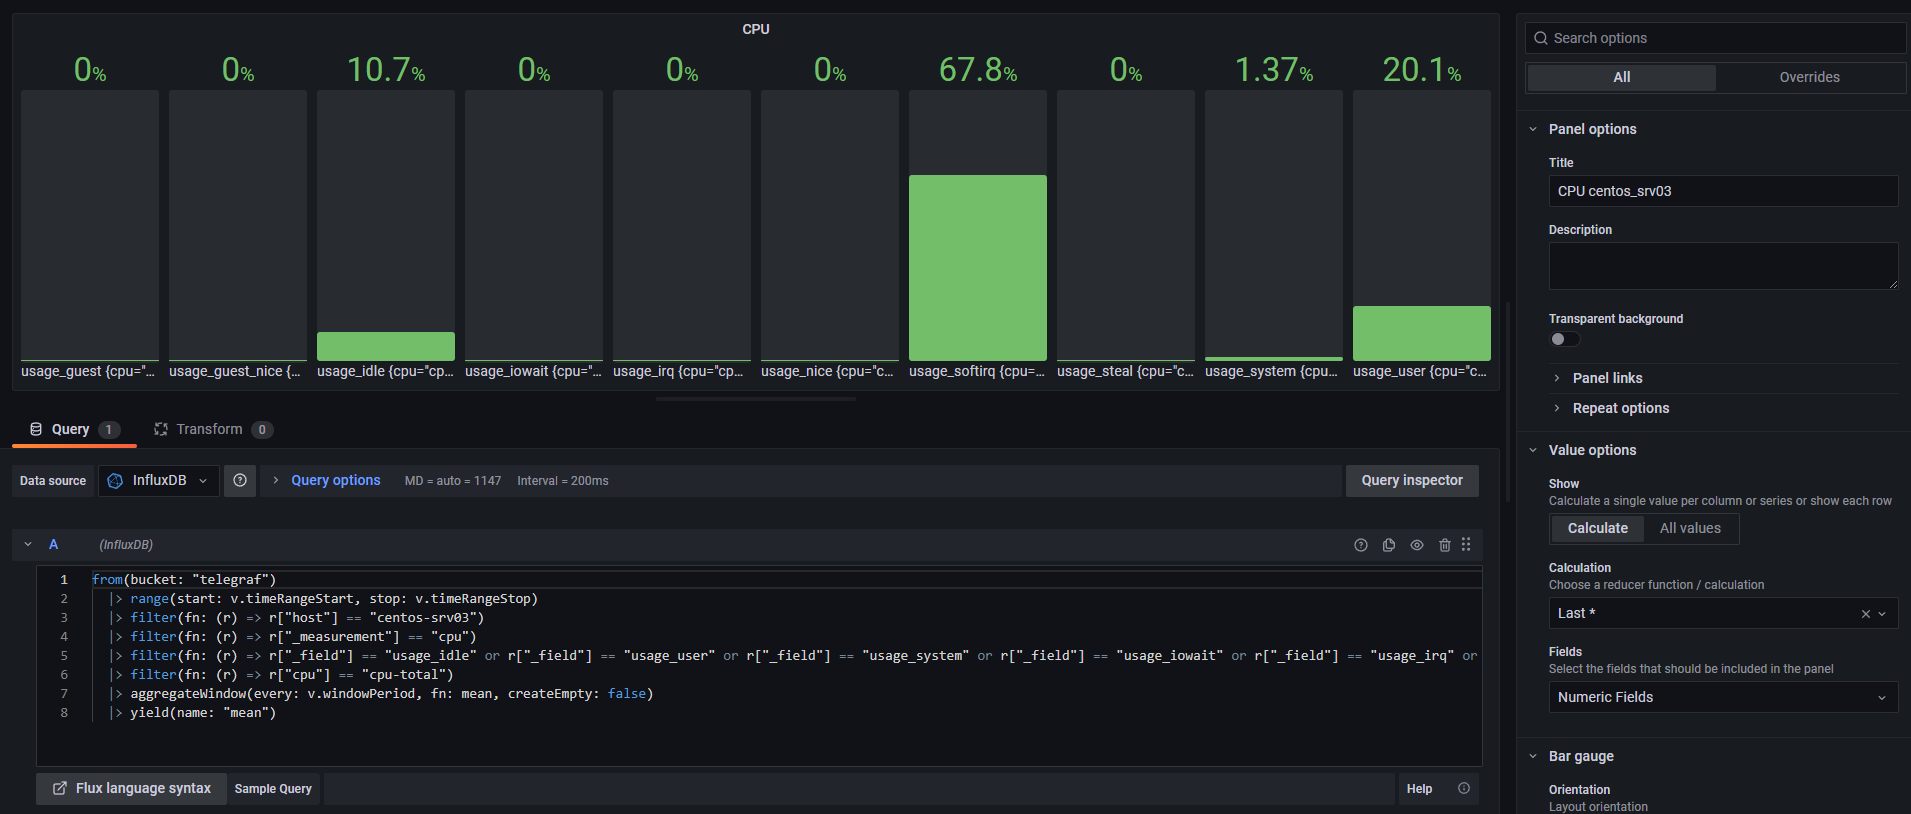
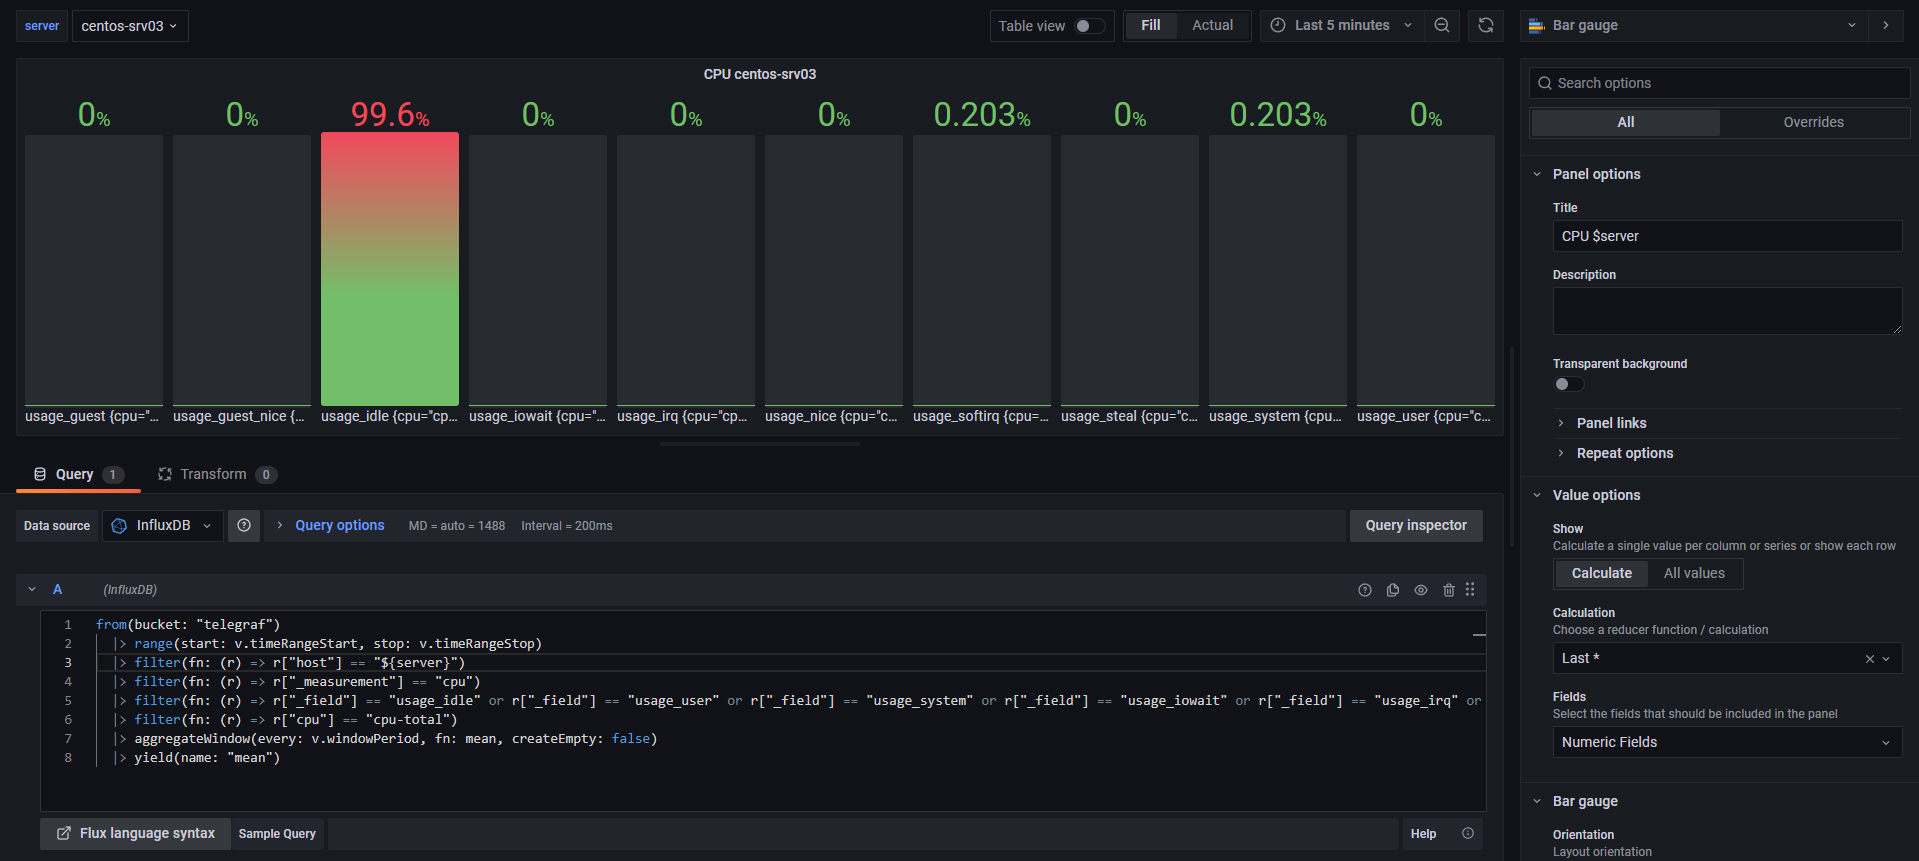
Atualizacao de codigo

diff --git a/README.md b/README.md
@@ -187,7 +187,6 @@ v1.tagValues(
 
 Obs:<br>
 1. Clicando fora dos campos, já é exibido um preview do valor coletado.<br>
-2. Exibe os valores da métrica **system** onde a chave for igual à **host**.<br>
 <kbd>
     <img src="https://github.com/fabiokerber/Grafana/blob/main/img/200220220858.png">
 </kbd>
@@ -198,12 +197,15 @@ Obs:<br>
 ```
 from(bucket: "telegraf")
   |> range(start: v.timeRangeStart, stop: v.timeRangeStop)
-  |> filter(fn: (r) => r["host"] == "centos-srv03")
+  |> filter(fn: (r) => r["host"] == "${server}")
   |> filter(fn: (r) => r["_measurement"] == "cpu")
   |> filter(fn: (r) => r["_field"] == "usage_idle" or r["_field"] == "usage_user" or r["_field"] == "usage_system" or r["_field"] == "usage_iowait" or r["_field"] == "usage_irq" or r["_field"] == "usage_nice" or r["_field"] == "usage_softirq" or r["_field"] == "usage_steal" or r["_field"] == "usage_guest" or r["_field"] == "usage_guest_nice")
   |> filter(fn: (r) => r["cpu"] == "cpu-total")
   |> aggregateWindow(every: v.windowPeriod, fn: mean, createEmpty: false)
   |> yield(name: "mean")
+```
+```
+Stress: $ stress-ng -c 0 -l 95
 ```
 <kbd>
     <img src="https://github.com/fabiokerber/Grafana/blob/main/img/200220220753.png">
@@ -232,9 +234,12 @@ from(bucket: "telegraf")
   |> range(start: v.timeRangeStart, stop: v.timeRangeStop)
   |> filter(fn: (r) => r["_measurement"] == "mem")
   |> filter(fn: (r) => r["_field"] == "total" or r["_field"] == "cached")
-  |> filter(fn: (r) => r["host"] == "centos-srv03")
+  |> filter(fn: (r) => r["host"] == "${server}")
   |> aggregateWindow(every: v.windowPeriod, fn: mean, createEmpty: false)
   |> yield(name: "last")
+```
+```
+Stress: $ stress-ng --vm 2 --vm-bytes 256M --timeout 240s
 ```
 <kbd>
     <img src="https://github.com/fabiokerber/Grafana/blob/main/img/200220221034.png">
@@ -273,234 +278,52 @@ from(bucket: "telegraf")
 <br />
 <br />
 
-## OLD
-
-# Importar Dash pronta do InfluxDB (somente para utilização Data Source "InfluxDB")
-New Dashboard > Import <br>
-https://grafana.com/grafana/dashboards/11912<br>
-Obs:<br>
-1. Necessário ajustar telegraf.conf
-<kbd>
-    <img src="https://github.com/fabiokerber/Grafana/blob/main/img/190220221317.png">
-</kbd>
-<br />
-<br />
-
-# Novo Dashboard utilizando variáveis
-Variáveis são utilizadas para quando for criar novos dashboard, utilizar os mesmos valores padrão.<br>
-**Refresh:** *On Time Range Change* - Quando alterar o valor de tempo na visualização, o Grafana atualiza o valor da variável em questão.<br>
-**Query:** *SHOW TAG VALUES FROM system WITH KEY = host* - Exibe os valores da métrica **system** onde a chave for igual à **host**.<br>
-Obs:<br>
-1. Clicando fora dos campos, já é exibido um preview do valor coletado.<br>
-<kbd>
-    <img src="https://github.com/fabiokerber/Grafana/blob/main/img/190220220911.png">
-</kbd>
-<br />
-<br />
-<kbd>
-    <img src="https://github.com/fabiokerber/Grafana/blob/main/img/190220220919.png">
-</kbd>
-<br />
-<br />
-
-
-# Painel de Uptime
-<kbd>
-    <img src="https://github.com/fabiokerber/Grafana/blob/main/img/190220220924.png">
-</kbd>
-<br />
-<br />
-<kbd>
-    <img src="https://github.com/fabiokerber/Grafana/blob/main/img/190220220925.png">
-</kbd>
-<br />
-<br />
-
-1. FROM: **system** WHERE: **host** = **$servers**<br>
-2. SELECT: **field(uptime)**<br>
-<kbd>
-    <img src="https://github.com/fabiokerber/Grafana/blob/main/img/190220220926.png">
-</kbd>
-<br />
-<br />
-
-Alterar para **Stat**.<br>
-<kbd>
-    <img src="https://github.com/fabiokerber/Grafana/blob/main/img/190220220940.png">
-</kbd>
-<br />
-<br />
-<kbd>
-    <img src="https://github.com/fabiokerber/Grafana/blob/main/img/190220220949.png">
-</kbd>
-<br />
-<br />
-<kbd>
-    <img src="https://github.com/fabiokerber/Grafana/blob/main/img/190220220950.png">
-</kbd>
-<br />
-<br />
-<kbd>
-    <img src="https://github.com/fabiokerber/Grafana/blob/main/img/190220220951.png">
-</kbd>
-<br />
-<br />
-<kbd>
-    <img src="https://github.com/fabiokerber/Grafana/blob/main/img/190220220952.png">
-</kbd>
-<br />
-<br />
-
-# Painel de CPU (% EM USO)
-*usage_idle* - Memória disponível.<br>
-*math(*-1 + 100)* - Fórmula matemática para trazer a porcentagem total de Memória disponível.<br> 
-1. FROM: **cpu** WHERE: **host** = **$servers** AND: **cpu** = **cpu-total**<br>
-2. SELECT: **field(usage_idle)** **math(*-1 + 100)**<br>
-<kbd>
-    <img src="https://github.com/fabiokerber/Grafana/blob/main/img/190220221007.png">
-</kbd>
-<br />
-<br />
-
-Alterar para **Gauge**.<br>
-<kbd>
-    <img src="https://github.com/fabiokerber/Grafana/blob/main/img/190220221011.png">
-</kbd>
-<br />
-<br />
-<kbd>
-    <img src="https://github.com/fabiokerber/Grafana/blob/main/img/190220221100.png">
-</kbd>
-<br />
-<br />
-<kbd>
-    <img src="https://github.com/fabiokerber/Grafana/blob/main/img/190220221121.png">
-</kbd>
-<br />
-<br />
-<kbd>
-    <img src="https://github.com/fabiokerber/Grafana/blob/main/img/190220221122.png">
-</kbd>
-<br />
-<br />
-<kbd>
-    <img src="https://github.com/fabiokerber/Grafana/blob/main/img/190220221123.png">
-</kbd>
-<br />
-<br />
-<kbd>
-    <img src="https://github.com/fabiokerber/Grafana/blob/main/img/190220221124.png">
-</kbd>
-<br />
-<br />
+# Painel Disco
 ```
-$ stress-ng -c 0 -l 95
+from(bucket: "telegraf")
+  |> range(start: v.timeRangeStart, stop: v.timeRangeStop)
+  |> filter(fn: (r) => r["_measurement"] == "disk" or r["_measurement"] == "diskio")
+  |> filter(fn: (r) => r["_field"] == "total" or r["_field"] == "used")
+  |> filter(fn: (r) => r["device"] == "sda1")
+  |> filter(fn: (r) => r["fstype"] == "xfs")
+  |> filter(fn: (r) => r["host"] == "${server}")
+  |> filter(fn: (r) => r["mode"] == "rw")
+  |> filter(fn: (r) => r["path"] == "/")
+  |> aggregateWindow(every: v.windowPeriod, fn: mean, createEmpty: false)
+  |> yield(name: "last")
 ```
-
 <kbd>
-    <img src="https://github.com/fabiokerber/Grafana/blob/main/img/190220221126.png">
+    <img src="https://github.com/fabiokerber/Grafana/blob/main/img/200220221130.png">
 </kbd>
 <br />
 <br />
 <kbd>
-    <img src="https://github.com/fabiokerber/Grafana/blob/main/img/190220221127.png">
-</kbd>
-<br />
-<br />
-
-# Painel de DISCO (% EM USO)
-1. FROM: **disk** WHERE: **host** = **$servers** AND: **path** = **/**<br>
-2. SELECT: **field(used_percent)**<br>
-<kbd>
-    <img src="https://github.com/fabiokerber/Grafana/blob/main/img/190220221130.png">
+    <img src="https://github.com/fabiokerber/Grafana/blob/main/img/200220221131.png">
 </kbd>
 <br />
 <br />
 
-Selecionar **Bar gauge**.<br>
-<kbd>
-    <img src="https://github.com/fabiokerber/Grafana/blob/main/img/190220221131.png">
-</kbd>
-<br />
-<br />
-<kbd>
-    <img src="https://github.com/fabiokerber/Grafana/blob/main/img/190220221135.png">
-</kbd>
-<br />
-<br />
-<kbd>
-    <img src="https://github.com/fabiokerber/Grafana/blob/main/img/190220221136.png">
-</kbd>
-<br />
-<br />
-<kbd>
-    <img src="https://github.com/fabiokerber/Grafana/blob/main/img/190220221137.png">
-</kbd>
-<br />
-<br />
-<kbd>
-    <img src="https://github.com/fabiokerber/Grafana/blob/main/img/190220221138.png">
-</kbd>
-<br />
-<br />
-<kbd>
-    <img src="https://github.com/fabiokerber/Grafana/blob/main/img/190220221140.png">
-</kbd>
-<br />
-<br />
-
-# Painel de MEMÓRIA (TOTAL EM USO)
-1. FROM: **mem** WHERE: **host** = **$servers**<br>
-2. SELECT: **field(used_percent)**<br>
-<kbd>
-    <img src="https://github.com/fabiokerber/Grafana/blob/main/img/190220221151.png">
-</kbd>
-<br />
-<br />
-<kbd>
-    <img src="https://github.com/fabiokerber/Grafana/blob/main/img/190220221205.png">
-</kbd>
-<br />
-<br />
-<kbd>
-    <img src="https://github.com/fabiokerber/Grafana/blob/main/img/190220221206.png">
-</kbd>
-<br />
-<br />
-<kbd>
-    <img src="https://github.com/fabiokerber/Grafana/blob/main/img/190220221207.png">
-</kbd>
-<br />
-<br />
-<kbd>
-    <img src="https://github.com/fabiokerber/Grafana/blob/main/img/190220221208.png">
-</kbd>
-<br />
-<br />
-<kbd>
-    <img src="https://github.com/fabiokerber/Grafana/blob/main/img/190220221209.png">
-</kbd>
-<br />
-<br />
-
+# Painel Docker
 ```
-$ stress-ng --vm-bytes $(awk '/MemAvailable/{printf "%d\n", $2 * 0.9;}' < /proc/meminfo)k --vm-keep -m 1
-$ stress-ng --vm 2 --vm-bytes 256M --timeout 240s
+from(bucket: "telegraf")
+  |> range(start: v.timeRangeStart, stop: v.timeRangeStop)
+  |> filter(fn: (r) => r["_measurement"] == "docker")
+  |> filter(fn: (r) => r["_field"] == "n_containers_running")
+  |> filter(fn: (r) => r["engine_host"] == "${server}")
+  |> filter(fn: (r) => r["host"] == "${server}")
+  |> filter(fn: (r) => r["server_version"] == "20.10.12")
+  |> aggregateWindow(every: v.windowPeriod, fn: mean, createEmpty: false)
+  |> yield(name: "last")
 ```
+<kbd>
+    <img src="https://github.com/fabiokerber/Grafana/blob/main/img/200220221132.png">
+</kbd>
+<br />
+<br />
 
-# Painel de monitoramento de containers
+# Resultado Paineis de Monitoração de Infra
 <kbd>
-    <img src="https://github.com/fabiokerber/Grafana/blob/main/img/190220221557.png">
-</kbd>
-<br />
-<br />
-<kbd>
-    <img src="https://github.com/fabiokerber/Grafana/blob/main/img/190220221600.png">
-</kbd>
-<br />
-<br />
-<kbd>
-    <img src="https://github.com/fabiokerber/Grafana/blob/main/img/190220221607.png">
+    <img src="https://github.com/fabiokerber/Grafana/blob/main/img/200220221133.png">
 </kbd>
 <br />
 <br />
